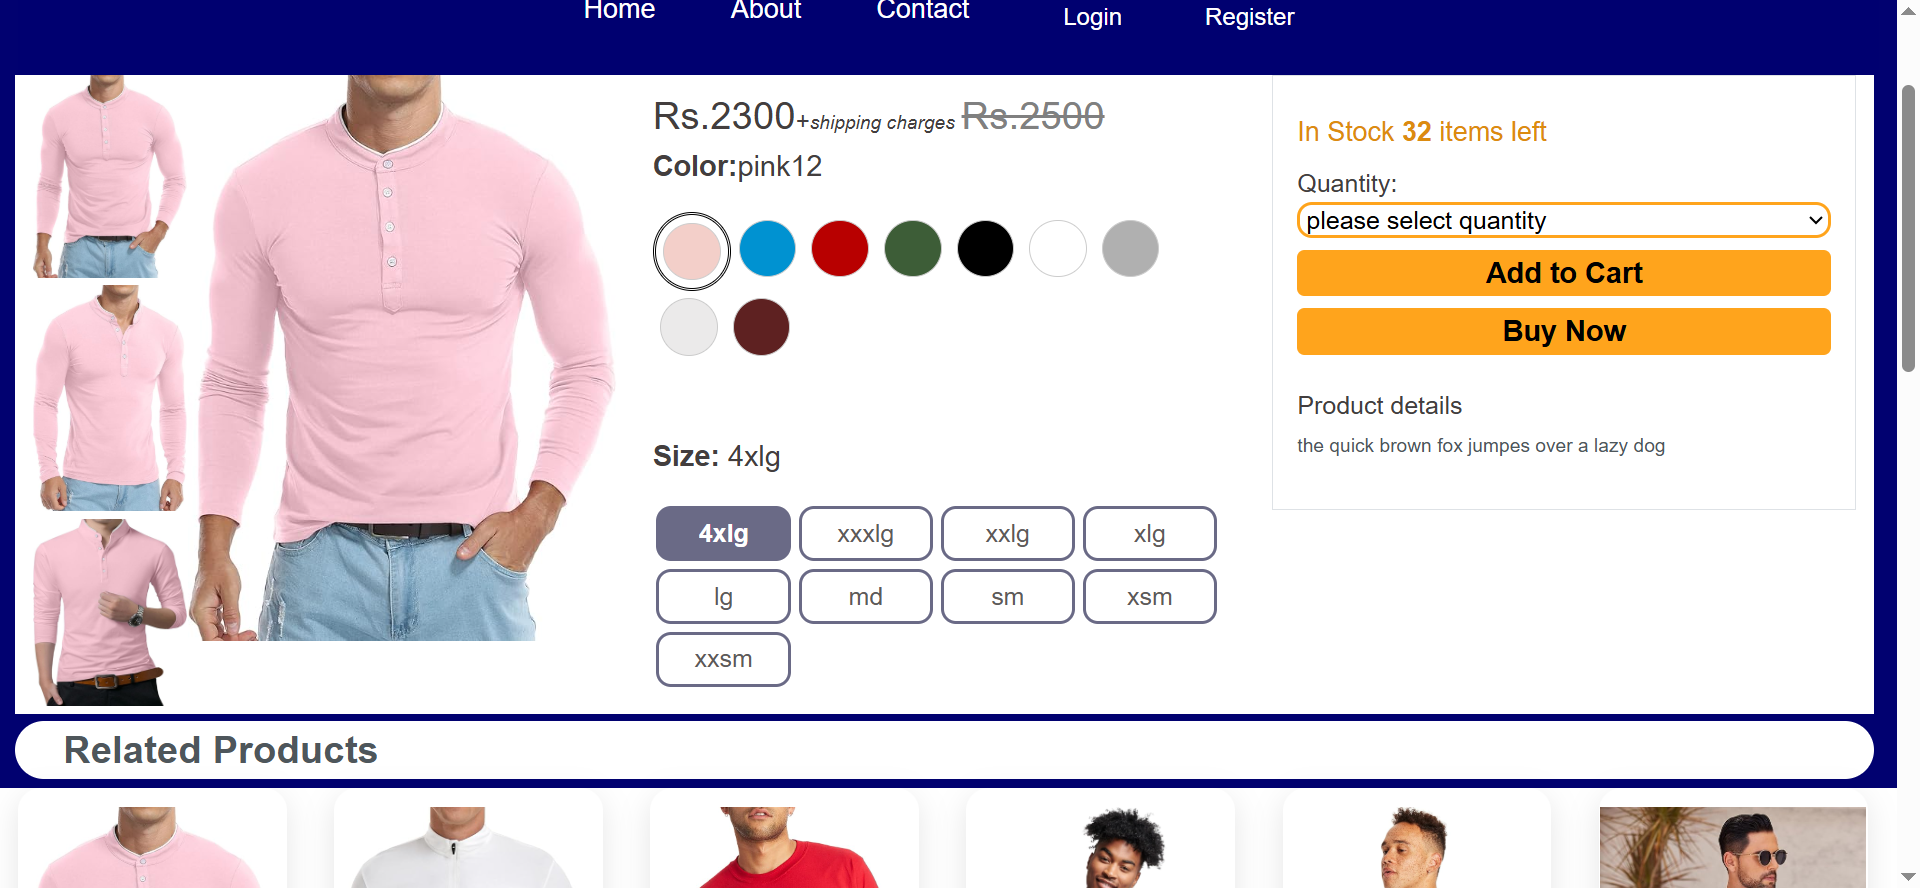
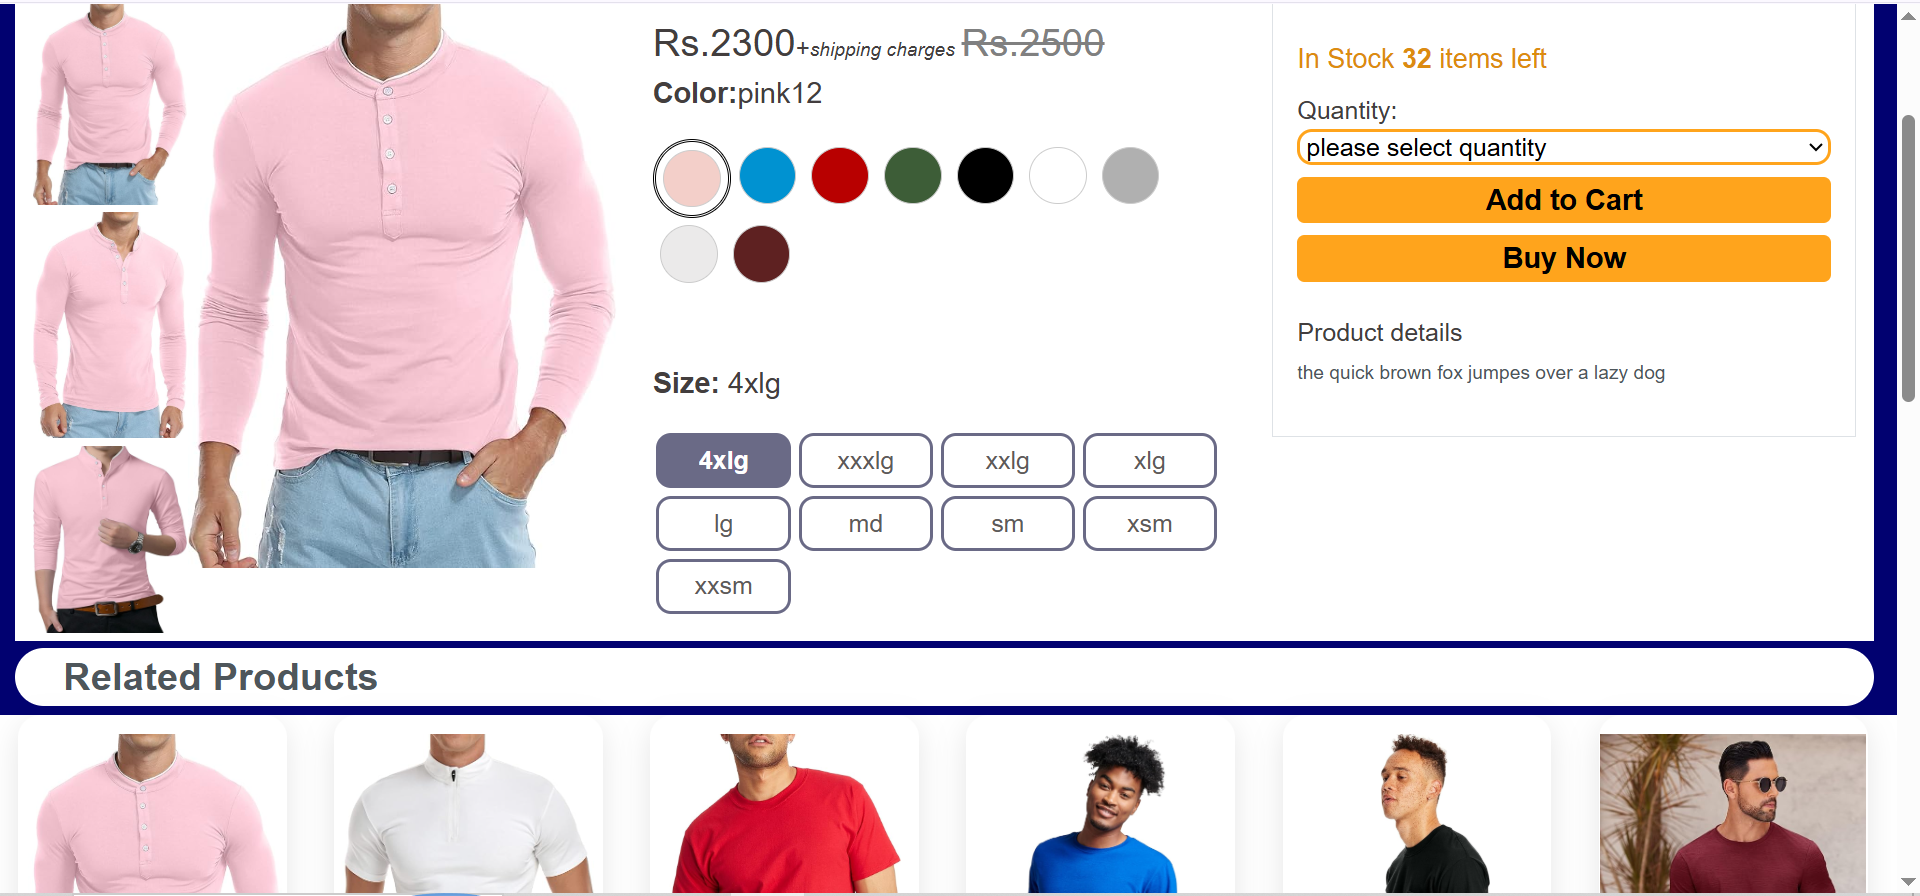
new changes man 9/24

diff --git a/app/page.jsx b/app/page.jsx
@@ -7,20 +7,21 @@ import { FaArrowUp, FaBars, FaDownload, FaEnvelope, FaGithub, FaLinkedin, FaMapM
 const navItems = ["about", "experience", "projects", "skills", "contact"];
 
 const projects = [
-  { title: "Sulli Shopping Center", type: "E-commerce platform", image: "/sulli.png", description: "A full-stack Django e-commerce platform with OTP authentication, product variants, filtering, dynamic pricing, location-based delivery, JazzCash payments, reviews, email confirmations and role-based dashboards.", tech: "Django · OTP · JazzCash · PythonAnywhere", demo: "https://sullimeer.pythonanywhere.com/" },
-  { title: "Vogue Fix My Motor", type: "Automotive web experience", image: "/vogue.png", description: "A production-ready Next.js website translated from Figma with responsive UI, JSON content, REST APIs and a Django blog management API.", tech: "Next.js · React · Django REST · APIs", demo: "https://voguefixmymotor.co.uk/" },
-  { title: "Vogue Mercedes", type: "Service platform", image: "/voguemercedies.png", description: "A Mercedes-focused service platform with service areas, detail journeys, engine development content and backend contact flows.", tech: "Next.js · JSON · Backend APIs", demo: "https://voguemercedesdevelopmentengines.vercel.app/" },
-  { title: "Range Rover Repairs", type: "Frontend development", image: "/range.png", description: "A responsive Next.js website converted from Figma with dynamic content, Tailwind CSS, MUI and performance-focused UI components.", tech: "Next.js · Tailwind CSS · MUI", demo: "https://rangeroverrepairs-test-development.vercel.app/" },
-];
+  { title: "Sulli Shopping Center", type: "Full-stack e-commerce platform", image: "/sulli.png", description: "My Final Year Project: a complete Django e-commerce platform with product variants, parent and child categories, filtering, search, reviews, orders, location-based delivery charges, OTP and Google authentication, JazzCash payments, email notifications, and a permission-based admin dashboard.", tech: "Django · Django REST Framework · Python · SQL · JazzCash", demo: "https://sullimeer.pythonanywhere.com/" },
+  { title: "Vogue Fix My Motor", type: "Full-stack development", image: "/vogue.png", description: "A responsive website for a UK-based automotive business. I built reusable Next.js and React components, integrated dynamic content, and developed the Django REST Framework blog management API consumed by the frontend.", tech: "Next.js · React.js · Django REST Framework · Tailwind CSS", demo: "https://voguefixmymotor.co.uk/" },
+  { title: "Blogs API Management", type: "Django REST Framework API", image: "/blogs.png", description: "A Django REST Framework backend for managing blogs through the built-in Django admin. It provides a blog listing API for frontend applications and a detail API that retrieves individual posts through their slugs, making content management and frontend publishing straightforward.", tech: "Python · Django · Django REST Framework · REST APIs", demo: "https://voguefixmymotor.co.uk/blog" },
+  { title: "Range Rover Repairs", type: "Frontend development", image: "/range.png", description: "A UK-based automotive website built with Next.js. I converted Figma designs into responsive pages, created reusable React components, integrated dynamic content and REST APIs, and worked with Tailwind CSS and MUI.", tech: "Next.js · React.js · Tailwind CSS · MUI · REST APIs", demo: "https://rangeroverrepairs-test-development.vercel.app/" },
+  { title: "Vogue Mercedes", type: "Service platform", image: "/voguemercedies.png", description: "A service-focused automotive website for a UK business. I developed responsive pages, reusable components, structured content, navigation and API-based sections so visitors can quickly understand and explore the available services.", tech: "Next.js · React.js · Tailwind CSS · REST APIs", demo: "https://voguemercedesdevelopmentengines.vercel.app/" },
+  ];
 
 const skillGroups = [
   ["Programming Languages", "Python, JavaScript, C++"],
   ["Backend Development", "Django, Django REST Framework, FastAPI, SQLAlchemy, Django ORM"],
   ["Frontend Development", "React.js, Next.js, Tailwind CSS, MUI, Bootstrap, HTML5, CSS3"],
   ["Databases", "MySQL, SQLite, PostgreSQL"],
-  ["Authentication & APIs", "JWT Authentication, Social Authentication, OTP-based Authentication, Authorization, REST APIs"],
+  ["Authentication & Authorization", "JWT Authentication, OTP Authentication, Google Social Authentication, Authorization, REST APIs"],
   ["Payment Integration", "JazzCash"],
-  ["Tools", "Git, GitHub, Postman, GitHub Copilot, Cursor AI"],
+  ["Development Tools", "Git, GitHub, Postman, GitHub Copilot, Cursor"],
   ["Deployment", "PythonAnywhere, Railway, Vercel, Netlify"],
   ["Other Skills", "Object Oriented Programming, Data Structures & Algorithms, Problem Solving, Team Collaboration"],
 ];
@@ -100,26 +101,34 @@ export default function Home() {
           <div>
             <Eyebrow>Full Stack Software Engineer <span className="ml-1 inline-block size-1.5 rounded-full bg-[#c9a25a]" /></Eyebrow>
             <h1 className="my-5 max-w-3xl text-[clamp(2.6rem,7vw,5.4rem)] font-bold leading-[.92] tracking-[-.06em] text-[#00255b]">Muhammad<br /><span className="text-[#c9a25a]">Suliman Meer</span></h1>
-            <p className="max-w-xl text-sm leading-7 text-[#647084]">Computer Science graduate and Full Stack Developer building reliable web applications with Python, Django, FastAPI, Next.js, React and SQL databases.</p>
-            <div className="mt-7 flex flex-wrap items-center gap-5"><a className="inline-flex items-center gap-3 rounded-lg bg-[#00255b] px-5 py-3 text-xs font-bold text-white transition-colors hover:bg-[#0a397e]" href="#projects" onClick={(event) => scrollToSection(event, "projects")}>View my projects <FaArrowUp className="rotate-[135deg] text-[10px]" /></a><a className="border-b border-[#00255b] pb-1 text-xs font-bold text-[#00255b] transition-colors hover:border-[#c9a25a] hover:text-[#c9a25a]" href="mailto:sulimanmeersadpara@gmail.com">Let&apos;s talk <span className="text-[#c9a25a]">↗</span></a></div>
+            <p className="max-w-xl text-sm leading-7 text-[#647084]">I build modern web applications with <strong>Python, Django, FastAPI, Next.js, and React.js</strong>. I enjoy working across backend and frontend development, from designing APIs and database logic to creating responsive and user-friendly interfaces.</p>
+            <div className="mt-7 flex flex-wrap items-center gap-5"><a className="inline-flex items-center gap-3 rounded-lg bg-[#00255b] px-5 py-3 text-xs font-bold text-white transition-colors hover:bg-[#0a397e]" href="#projects" onClick={(event) => scrollToSection(event, "projects")}>View my projects <FaArrowUp className="rotate-[135deg] text-[10px]" /></a><a className="border-b border-[#00255b] pb-1 text-xs font-bold text-[#00255b] transition-colors hover:border-[#c9a25a] hover:text-[#c9a25a]" href="tel:+923117480168 ">&#128241;+923117480168 <span className="text-[#c9a25a]"></span></a></div>
           </div>
-          <div className="flex justify-center md:justify-end"><div className="w-full max-w-md overflow-hidden rounded-[10px] border-4 border-[#c9a25a] bg-[#f4f1eb] "><img className="h-auto w-full object-contain" src="/SM big.png" alt="Muhammad Suliman Meer" /></div></div>
+          <div className="flex justify-center md:justify-end"><div className="w-full max-w-md overflow-hidden rounded-[10px] border-4 border-[#c9a25a] bg-[#f4f1eb] ">
+            <center> <img className="mt-8 w-[50%] mix-blend-multiply" src="/68f40f5b-a68d-4725-a524-6b24f10e5af4.png" alt="Technology logos" /></center>
+       
+            <img className="h-auto w-full object-contain" src="/SM big.png" alt="Muhammad Suliman Meer" />
+          
+          </div>
+          </div>
         </section>
         <div className="flex justify-between border-t border-[#00255b]/15 py-3 text-[9px] font-bold uppercase tracking-[.16em] text-[#647084]"><span>Full Stack Developer</span><span>Available for select projects</span></div>
 
-        <Section id="about" className="grid gap-10 md:grid-cols-[minmax(0,1fr)_220px] md:gap-16"><div><Eyebrow>About me</Eyebrow><h2 className="mt-3 max-w-3xl text-3xl font-bold leading-tight tracking-tight text-[#00255b] md:text-4xl">Building modern web applications with Python, Django and Next.js.</h2><p className="mt-5 max-w-2xl text-sm leading-7 text-[#647084]">Computer Science graduate and Full Stack Developer with practical experience in building web applications using Python, Django, FastAPI, Next.js, React and SQL databases. I have worked on real-world projects, REST APIs, databases and responsive websites. I enjoy solving problems, learning new technologies, and building reliable and user-friendly web applications.</p></div><div className="self-end border-t-2 border-[#00255b] pt-3 text-xs leading-6 text-[#647084]"><span className="block uppercase tracking-[.12em]">Currently</span><strong className="my-2 block text-[#00255b]">Full Stack Developer</strong><span>4xCode Software House</span></div></Section>
+        <Section id="about" className="grid gap-10 md:grid-cols-[minmax(0,1fr)_220px] md:gap-16"><div><Eyebrow>About me</Eyebrow><h2 className="mt-3 max-w-3xl text-3xl font-bold leading-tight tracking-tight text-[#00255b] md:text-4xl">Building useful web applications with Python and Next.js.</h2><div className="mt-5 max-w-2xl space-y-4 text-sm leading-7 text-[#647084]"><p>I am a Computer Science graduate and Full Stack Developer who enjoys turning ideas and requirements into working web applications.</p><p>My main experience is with <strong>Python, Django, Django REST Framework, FastAPI, Next.js, React.js, and SQL databases</strong>. I work with APIs, databases, authentication, authorization, business logic, integrations, responsive pages, reusable components, forms and dashboards.</p><p>I have worked on real-world projects for UK-based clients, contributing to website development, API integration, responsive interfaces, debugging and improving existing applications. I enjoy understanding how things work and building solutions that are simple, reliable and easy to use.</p></div></div><div className="self-end border-t-2 border-[#00255b] pt-3 text-xs leading-6 text-[#647084]"><span className="block uppercase tracking-[.12em]">Currently</span><strong className="my-2 block text-[#00255b]">Full Stack Developer</strong><span>Working with Python, Django, FastAPI, Next.js, React.js, REST APIs and databases.</span></div></Section>
 
-        <Section id="experience"><Eyebrow>Work experience</Eyebrow><h2 className="mt-3 text-3xl font-bold tracking-tight text-[#00255b] md:text-4xl">Full Stack Developer</h2><p className="mt-2 text-sm font-bold uppercase tracking-[.12em] text-[#c9a25a]">4xCode Software House</p><div className="mt-8 grid gap-8 border-t border-[#00255b]/15 pt-5 md:grid-cols-[150px_1fr_1fr]"><p className="text-xs font-bold uppercase tracking-[.15em] text-[#00255b]">2024 — now</p><p className="text-sm leading-7 text-[#647084]">I develop and maintain web applications for different projects and clients using Python, Django, Django REST Framework, FastAPI, Next.js and React.js.</p><p className="text-sm leading-7 text-[#647084]">My work includes backend development, REST APIs, databases, responsive frontend development, reusable components, bug fixing and performance improvements.</p></div><img className="mt-8 max-w-xl mix-blend-multiply" src="/68f40f5b-a68d-4725-a524-6b24f10e5af4.png" alt="Technology logos" /></Section>
+        <Section id="experience"><Eyebrow>Work experience</Eyebrow><h2 className="mt-3 text-3xl font-bold tracking-tight text-[#00255b] md:text-4xl">Full Stack Developer</h2><p className="mt-2 text-sm font-bold uppercase tracking-[.12em] text-[#c9a25a]">4xCode Software House</p><div className="mt-8 grid gap-8 border-t border-[#00255b]/15 pt-5 md:grid-cols-[150px_1fr_1fr]"><p className="text-xs font-bold uppercase tracking-[.15em] text-[#00255b]">2026 — present</p><p className="text-sm leading-7 text-[#647084]">I develop and maintain web applications for different projects and UK-based clients. On the backend I build APIs, handle database operations, implement application logic, and work with authentication and permissions using Python, Django, Django REST Framework and FastAPI.</p><p className="text-sm leading-7 text-[#647084]">On the frontend I build responsive pages, reusable components, forms and dynamic interfaces with Next.js and React.js. My work also includes API integration, debugging, performance improvements and making changes safely in existing codebases.</p></div><center>
+           </center>
+          </Section>
 
-        <Section id="projects"><div className="flex flex-wrap items-end justify-between gap-4"><div><Eyebrow>Selected projects</Eyebrow><h2 className="mt-3 max-w-2xl text-3xl font-bold tracking-tight text-[#00255b] md:text-4xl">A few things I&apos;ve helped bring to life.</h2></div><p className="text-xs leading-6 text-[#647084]">Real products, real constraints,<br />thoughtful solutions.</p></div><div className="mt-10 space-y-12">{projects.map((project, index) => <motion.article className={`grid items-center gap-6 md:grid-cols-2 md:gap-12 ${index % 2 ? "md:[&>*:first-child]:order-2" : ""}`} key={project.title} initial={{ opacity: 0, y: 20 }} whileInView={{ opacity: 1, y: 0 }} viewport={{ once: true, margin: "-60px" }} transition={{ duration: .45 }}><div className="aspect-[1.55] overflow-hidden rounded-[10px] bg-[#00255b]"><img className="h-full w-full object-cover transition-transform duration-500 hover:scale-[1.03]" src={project.image} alt={project.title} /></div><div className="max-w-xl"><Eyebrow>{project.type}</Eyebrow><h3 className="mt-3 text-2xl font-bold tracking-tight text-[#00255b] md:text-3xl">{project.title}</h3><p className="mt-3 text-sm leading-7 text-[#647084]">{project.description}</p><p className="mt-3 text-[10px] font-bold uppercase tracking-[.12em] text-[#00255b]">{project.tech}</p><a className="mt-5 inline-block border-b border-[#00255b] pb-1 text-xs font-bold text-[#00255b] hover:border-[#c9a25a] hover:text-[#c9a25a]" href={project.demo} target="_blank" rel="noreferrer">Visit project ↗</a></div></motion.article>)}</div></Section>
+        <Section id="projects"><div className="flex flex-wrap items-end justify-between gap-4"><div><Eyebrow>Selected projects</Eyebrow><h2 className="mt-3 max-w-2xl text-3xl font-bold tracking-tight text-[#00255b] md:text-4xl">Projects built from backend logic to polished interfaces.</h2></div><p className="text-xs leading-6 text-[#647084]">E-commerce, APIs and<br />production websites.</p></div><div className="mt-10 space-y-12">{projects.map((project, index) => <motion.article className={`grid items-center gap-6 md:grid-cols-2 md:gap-12 ${index % 2 ? "md:[&>*:first-child]:order-2" : ""}`} key={project.title} initial={{ opacity: 0, y: 20 }} whileInView={{ opacity: 1, y: 0 }} viewport={{ once: true, margin: "-60px" }} transition={{ duration: .45 }}><div className="aspect-[1.55] overflow-hidden rounded-[10px] bg-[#00255b]"><img className="h-full w-full object-cover transition-transform duration-500 hover:scale-[1.03]" src={project.image} alt={project.title} /></div><div className="max-w-xl"><Eyebrow>{project.type}</Eyebrow><h3 className="mt-3 text-2xl font-bold tracking-tight text-[#00255b] md:text-3xl">{project.title}</h3><p className="mt-3 text-sm leading-7 text-[#647084]">{project.description}</p><p className="mt-3 text-[10px] font-bold uppercase tracking-[.12em] text-[#00255b]">{project.tech}</p><a className="mt-5 inline-block border-b border-[#00255b] pb-1 text-xs font-bold text-[#00255b] hover:border-[#c9a25a] hover:text-[#c9a25a]" href={project.demo} target="_blank" rel="noreferrer">View project ↗</a></div></motion.article>)}</div></Section>
 
-        <Section id="skills"><Eyebrow>Technical skills</Eyebrow><h2 className="mt-3 text-3xl font-bold tracking-tight text-[#00255b] md:text-4xl">Tools and technologies I use.</h2><div className="mt-8 grid gap-0 md:grid-cols-2">{skillGroups.map(([title, items]) => <div className="border-t border-[#00255b]/15 py-4 pr-5" key={title}><h3 className="text-base font-bold text-[#00255b]">{title}</h3><p className="mt-2 text-sm leading-6 text-[#647084]">{items}</p></div>)}</div></Section>
+        <Section id="skills"><Eyebrow>Technical skills</Eyebrow><h2 className="mt-3 text-3xl font-bold tracking-tight text-[#00255b] md:text-4xl">Tools and technologies I use.</h2><p className="mt-4 max-w-2xl text-sm leading-7 text-[#647084]">My experience covers backend and frontend development, databases, authentication, APIs, payment integration, development tools and deployment platforms.</p><div className="mt-8 grid gap-0 md:grid-cols-2">{skillGroups.map(([title, items]) => <div className="border-t border-[#00255b]/15 py-4 pr-5" key={title}><h3 className="text-base font-bold text-[#00255b]">{title}</h3><p className="mt-2 text-sm leading-6 text-[#647084]">{items}</p></div>)}</div></Section>
 
-        <Section id="education" className="grid gap-10 md:grid-cols-2"><div><Eyebrow>Education</Eyebrow><h2 className="mt-3 text-3xl font-bold text-[#00255b]">BS in Computer Science</h2><p className="mt-2 text-sm font-bold text-[#c9a25a]">University of Baltistan</p></div><div className="text-sm leading-7 text-[#647084]"><p>Mar 2022 - Dec 2025</p><p className="mt-4">Focused on software development, algorithms, databases and practical application development.</p></div></Section>
+        <Section id="education" className="grid gap-10 md:grid-cols-2"><div><Eyebrow>Education</Eyebrow><h2 className="mt-3 text-3xl font-bold text-[#00255b]">BS in Computer Science</h2><p className="mt-2 text-sm font-bold text-[#c9a25a]">University of Baltistan</p></div><div className="text-sm leading-7 text-[#647084]"><p>March 2022 — December 2025</p><p className="mt-4">During my degree, I developed a foundation in programming, software development, databases, algorithms and data structures. My Final Year Project, Sulli Shopping Center, gave me practical experience building a complete full-stack application.</p></div></Section>
 
         <Section id="contact" className="py-8 md:py-10"><Eyebrow>Contact</Eyebrow><h2 className="mt-3 max-w-3xl text-3xl font-bold leading-tight tracking-tight text-[#00255b] md:text-4xl">Have a good problem?<br /><span className="text-[#c9a25a]">Let&apos;s make something useful.</span></h2><div className="mt-7 grid gap-7 border-t border-[#00255b]/15 pt-5 md:grid-cols-[1fr_1fr] md:items-end"><div className="space-y-3 text-sm text-[#647084]"><a className="flex items-center gap-3 text-xl font-bold text-[#00255b] hover:text-[#c9a25a]" href="mailto:sulimanmeersadpara@gmail.com"><FaEnvelope className="text-base" /> sulimanmeersadpara@gmail.com</a><a className="flex items-center gap-3 hover:text-[#c9a25a]" href="tel:+923117480168"><FaPhoneAlt /> +92 311 7480168</a><a className="flex items-center gap-3 hover:text-[#c9a25a]" href="https://wa.me/923117480168" target="_blank" rel="noreferrer"><FaWhatsapp /> WhatsApp: +92 311 7480168</a><p className="flex items-center gap-3"><FaMapMarkerAlt /> Johar Town, Lahore</p></div><div className="flex flex-wrap gap-5 text-xs font-bold uppercase tracking-[.1em] text-[#00255b]"><a className="hover:text-[#c9a25a]" href="https://github.com/sulimanmeersadpara" target="_blank" rel="noreferrer"><FaGithub className="mr-2 inline" />GitHub</a><a className="hover:text-[#c9a25a]" href="https://www.linkedin.com/in/salman-meer-07b48b365/" target="_blank" rel="noreferrer"><FaLinkedin className="mr-2 inline" />LinkedIn</a></div></div></Section>
 
-        <footer className="flex flex-wrap justify-between gap-4 border-t border-[#00255b]/15 py-5 text-[10px] font-bold uppercase tracking-[.12em] text-[#647084]"><span>© 2025 Muhammad Suliman Meer</span><a href="#top" onClick={(event) => scrollToSection(event, "top")} className="hover:text-[#00255b]">Back to top ↑</a><span>Lahore, Pakistan</span></footer>
+        <footer className="flex flex-wrap justify-between gap-4 border-t border-[#00255b]/15 py-5 text-[10px] font-bold uppercase tracking-[.12em] text-[#647084]"><span>© 2026 Muhammad Suliman Meer · Python · Django · FastAPI · Next.js · React.js</span><a href="#top" onClick={(event) => scrollToSection(event, "top")} className="hover:text-[#00255b]">Back to top ↑</a><span>Lahore, Pakistan</span></footer>
       </div>
       </main>
     </>
